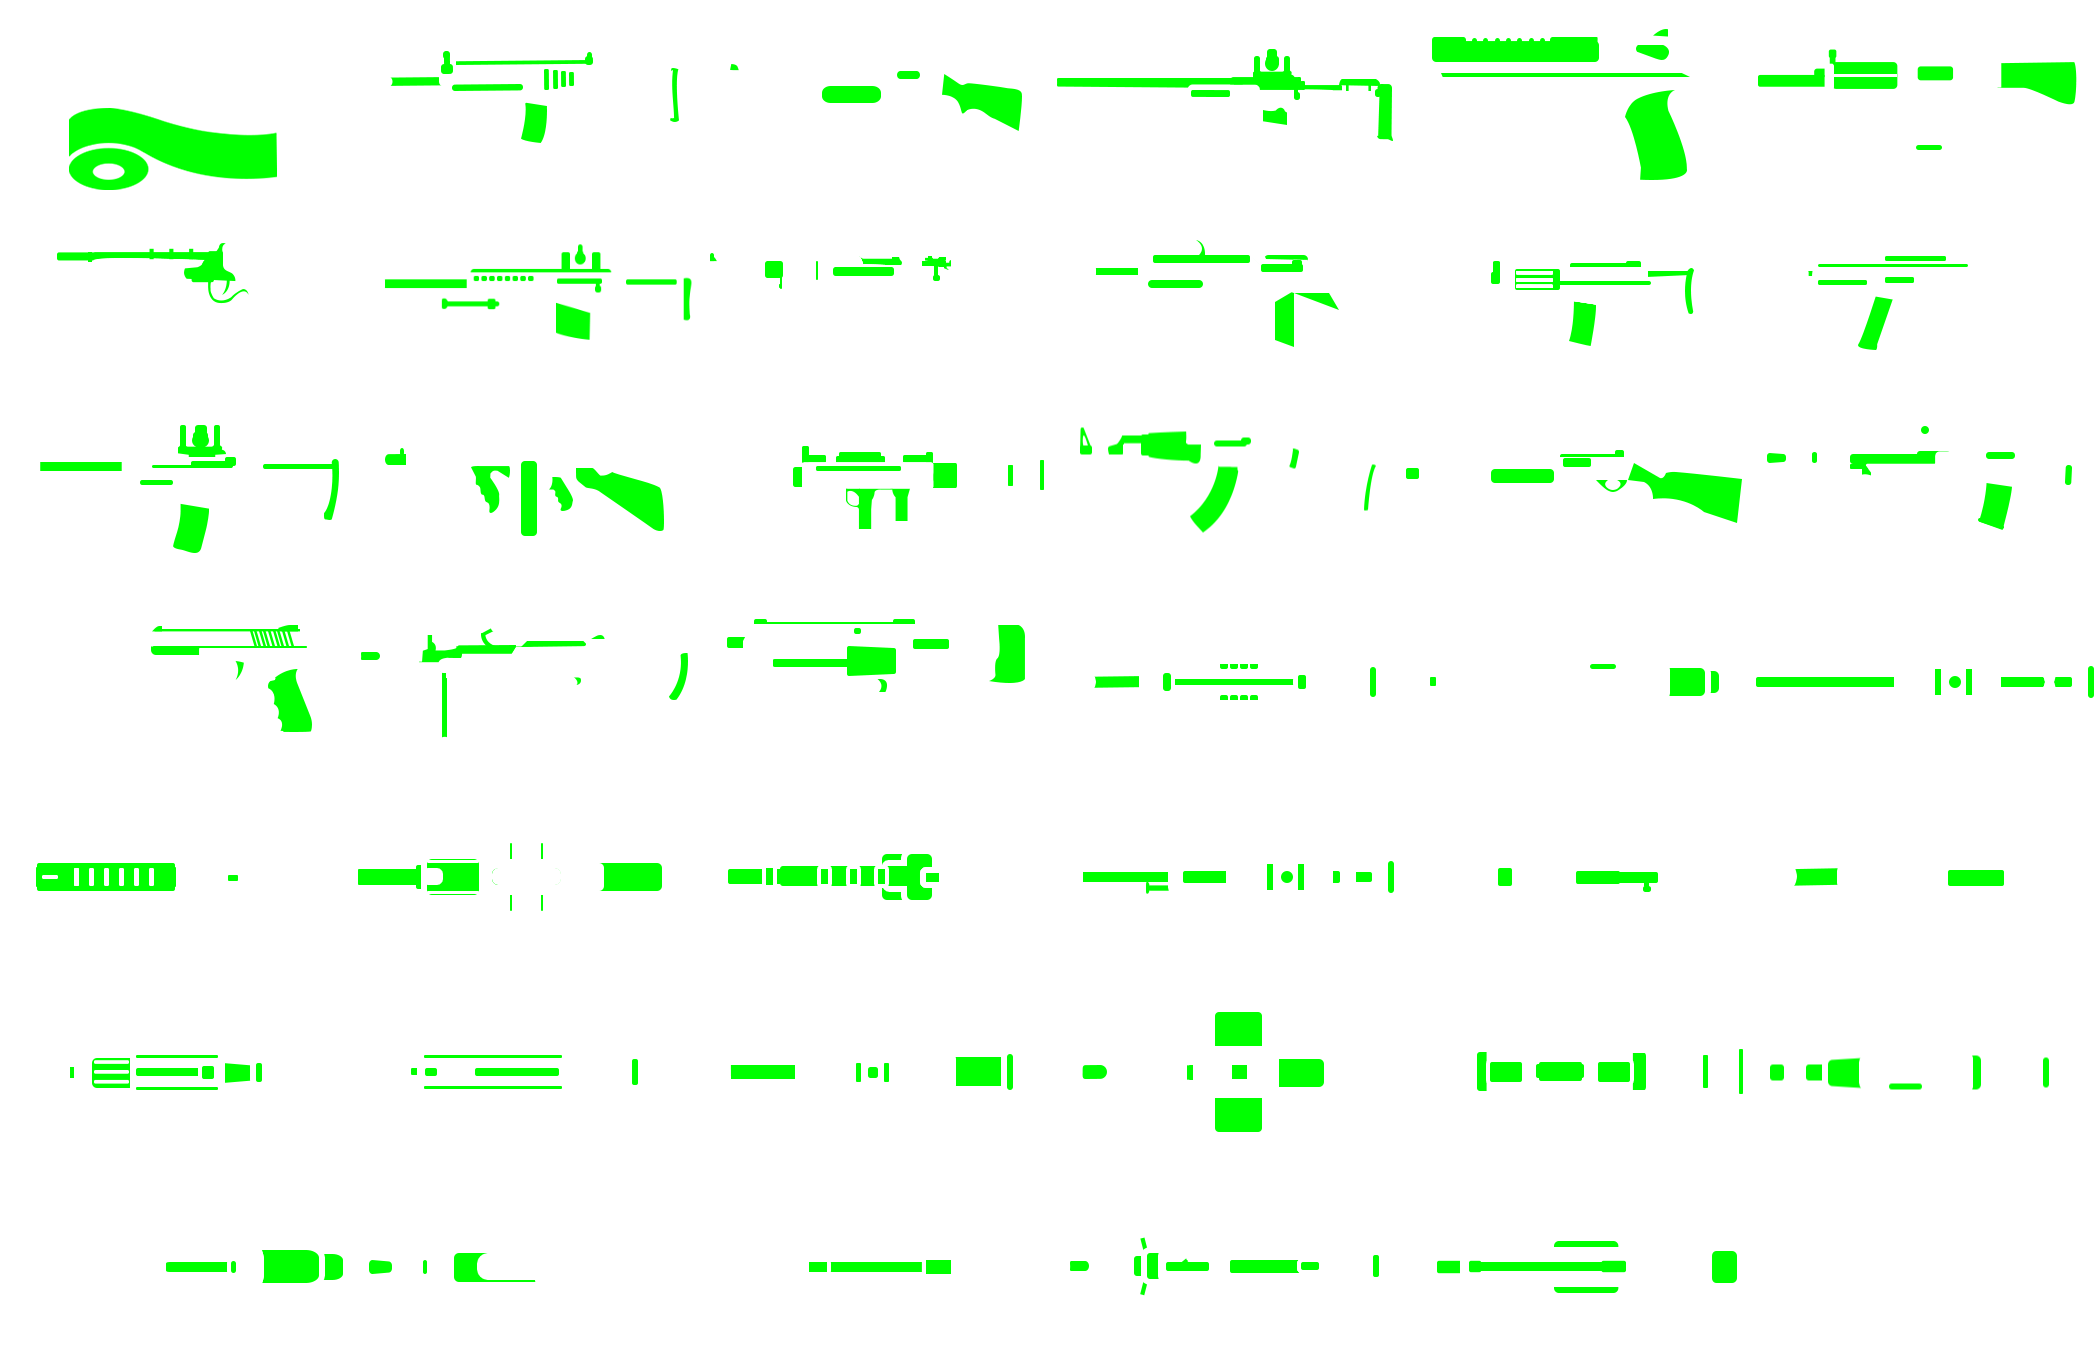
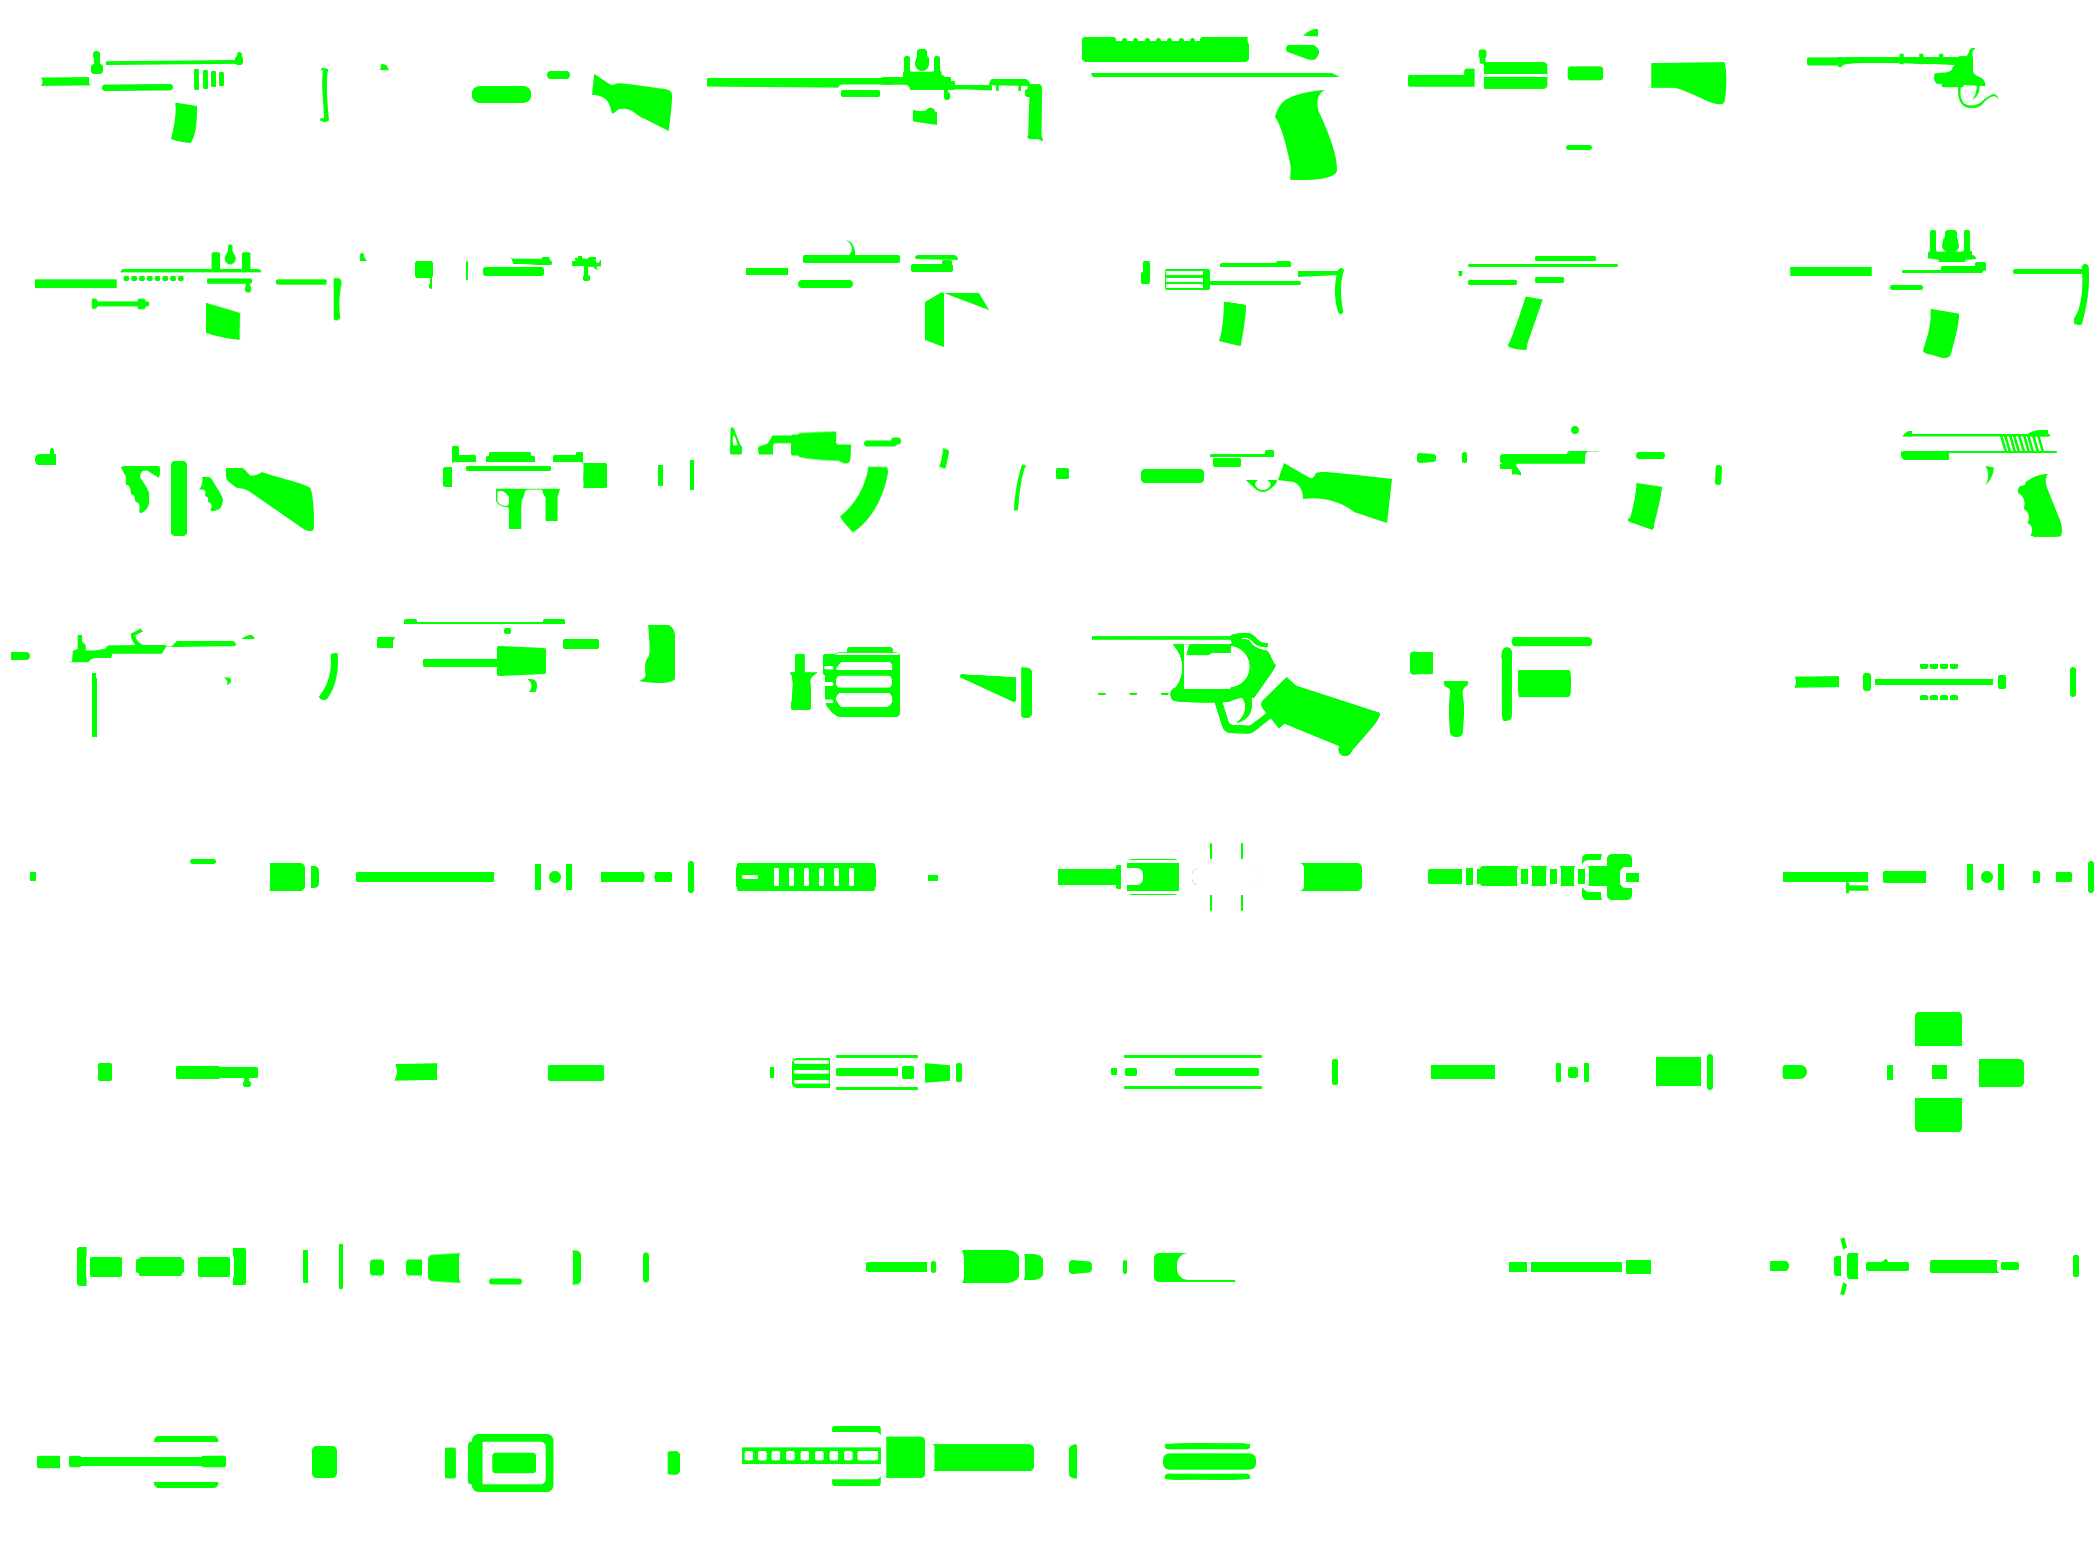
explosives support

diff --git a/brwraps/index.html b/brwraps/index.html
@@ -40,7 +40,7 @@
     <div id="wrapholders">
     </div>
     <script>
-        let original = ['wrap', 'scar', 'shotgun', 'bolt', 'deagle', 'autoshotgun', 'musket', 'heavy sniper', 'rifle', 'famas', 'smg', 'ump', 'scoped ar', 'tommy gun', 'rpg', 'ak47', 'combat', 'aug', 'silencedpistol', 'lmg', 'burst shotgun'];
+        let original = ['scar', 'shotgun', 'bolt', 'deagle', 'autoshotgun', 'musket', 'heavy sniper', 'rifle', 'famas', 'smg', 'ump', 'scoped ar', 'tommy gun', 'rpg', 'ak47', 'combat', 'aug', 'silencedpistol', 'lmg', 'burst shotgun', 'grenade launcher', 'grenade pistol', 'mgl'];
         let length = original.length;
         for (let i = 0; i < length; i++) {
             if (original[i] === 'wrap') continue;
